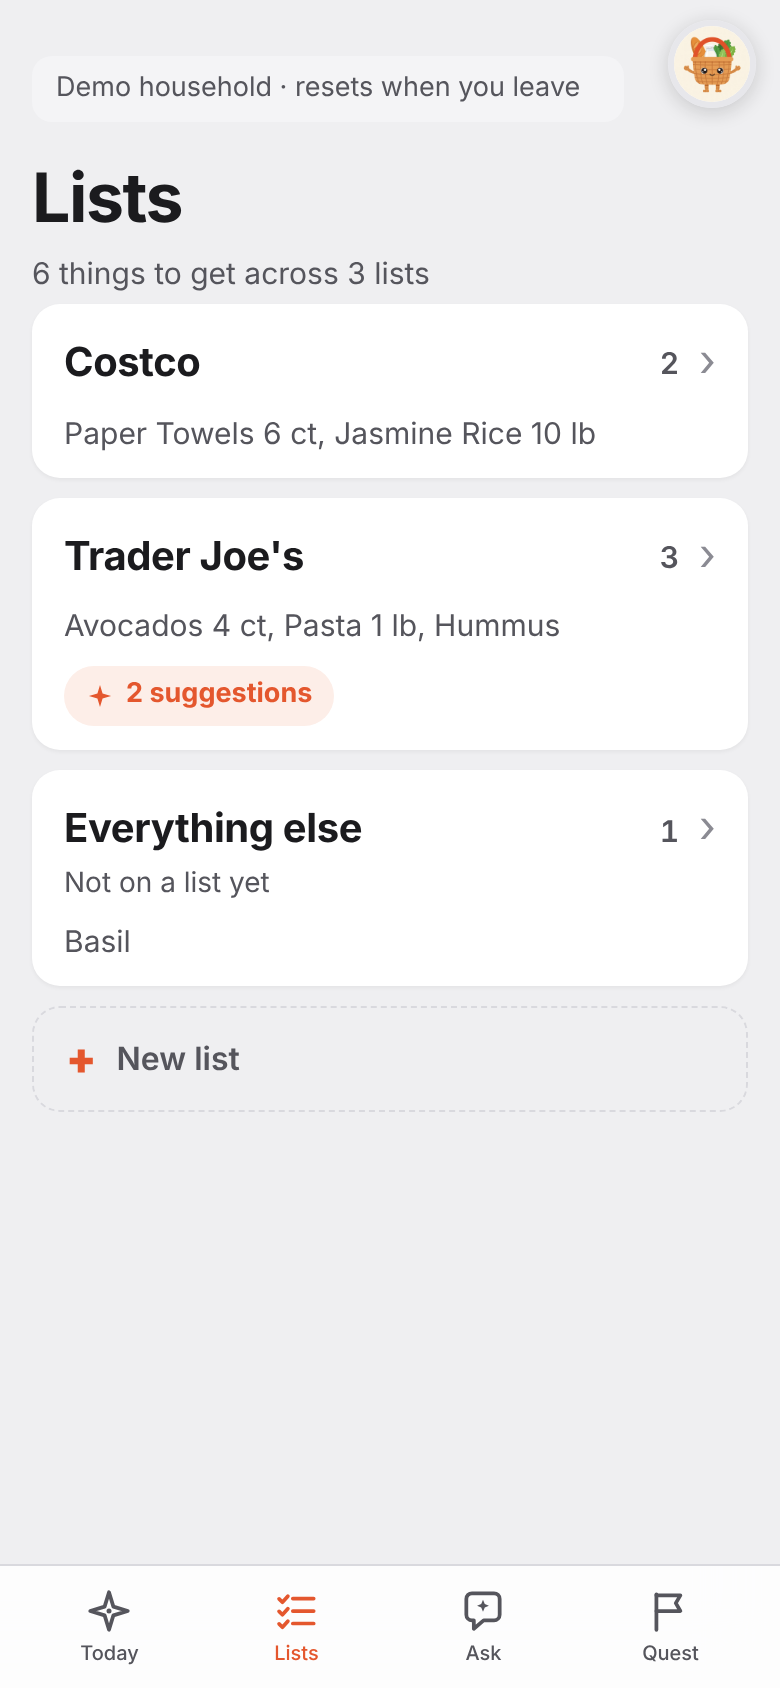
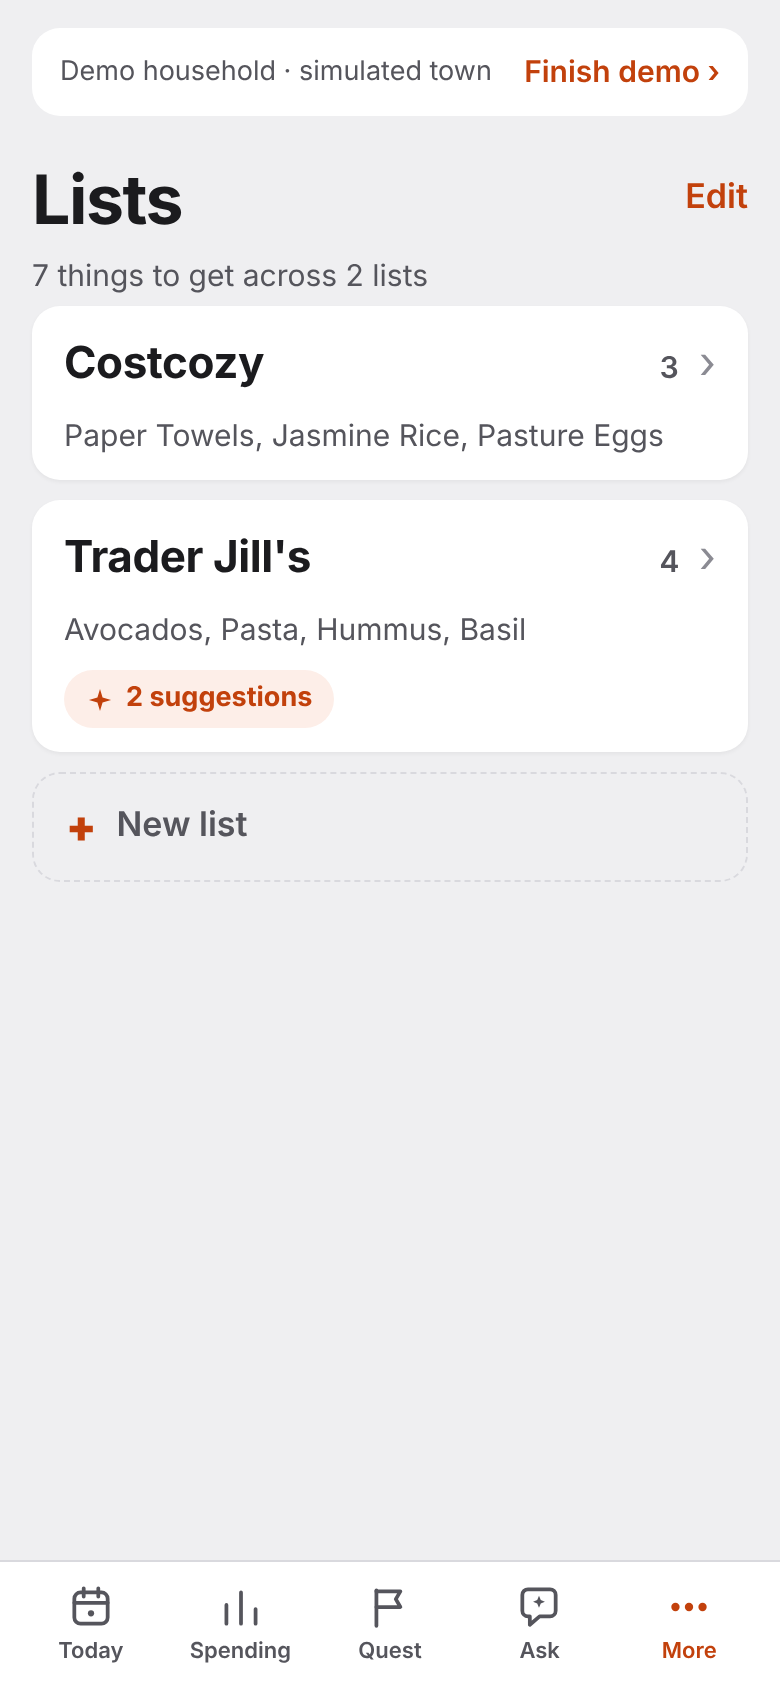
Docs: README front door for judges (#431)
* Docs: README front door (pitch, why it is different, judges' reading order, documentation map)

Claude-Session: https://claude.ai/code/session_0155vpoTbdwVT6nJbW3gnt9Z

* Docs: README nav text matches the current bar; retake Today and Lists screenshots from the live demo

Claude-Session: https://claude.ai/code/session_0155vpoTbdwVT6nJbW3gnt9Z

* Docs: judge playbook bar text matches the current bar

Claude-Session: https://claude.ai/code/session_0155vpoTbdwVT6nJbW3gnt9Z

* Docs: Try-it step 2 says open a list first

Claude-Session: https://claude.ai/code/session_0155vpoTbdwVT6nJbW3gnt9Z

---------

diff --git a/README.md b/README.md
@@ -1,42 +1,95 @@
-# Arya
+<h1 align="center">Arya</h1>
+<p align="center"><strong>She remembers the list.</strong></p>
+<p align="center">
+  A grocery list that learns from your receipts, then mostly writes itself.<br>
+  Built for the Meta Global AI Developer Hackathon 2026 (Team Nightshift, Indie track).
+</p>
 
-**She remembers the list.**
-
-Arya is a grocery list that learns. It reads your receipts, checks every
-line against the printed total, and learns what your household buys, how
-often, and at which store. The list then mostly writes itself: what is
-running low, what to use soon, and where you usually buy it.
-
-Start shopping - Go on a Quest to make the chore feel like a game. It turns
-your list into a hunt through a model of your store and ends on a photo of
-your receipt.
-
-Built for the Meta Global AI Developer Hackathon 2026 (Team Nightshift,
-Indie track). Submission deadline: Nov 4, 2026, 9:00 PM ET.
-
-**Judging this?** Start at [`JUDGES.md`](JUDGES.md): the rubric, the Meta model map and proof links in one page.
-
-**For developers:** open Lists API and docs at https://arya.teamnightshift.org/developers.
-
-**Live demo:** https://arya.teamnightshift.org. Tap "Try it now". It opens a
-fictional household with no account. Your changes live in a sandbox for your
-visit only; nothing reaches disk or another visitor.
+<p align="center">
+  <a href="https://arya.teamnightshift.org"><strong>Open the live demo</strong></a>
+  (tap "Try it now", no sign-up) &nbsp;|&nbsp;
+  <a href="JUDGES.md"><strong>Judging this? Start here</strong></a>
+  &nbsp;|&nbsp;
+  <a href="#documentation-map"><strong>All the docs</strong></a>
+</p>
 
 <p align="center">
   <img src="docs/images/today.png" alt="Today: what is running low, store alerts, what to use soon" width="230">
   <img src="docs/images/lists.png" alt="Lists: one card per store list, with suggestions" width="230">
 </p>
-<p align="center"><em>Today and Lists in the demo household.</em></p>
+<p align="center"><em>Today and Lists in the demo household (a simulated neighborhood, labelled as such).</em></p>
+
+## What it is
+
+Arya reads your receipts, checks every line against the printed total, and
+learns what your household buys, how often, and at which store. The list then
+mostly writes itself: what is running low, what to use soon, and where you
+usually buy it, each with a reason.
+
+It is for people who shop for a household, and for groups who share a list. It
+is a phone-first app (a PWA), and it also has an optional game, **Quest**, that
+turns the shopping trip into a hunt through a model of your store and ends on a
+photo of your receipt.
+
+**Live demo:** https://arya.teamnightshift.org. The demo opens a fictional
+household with no account. Your changes live in a sandbox for your visit only;
+nothing reaches disk or another visitor. It is best on a phone; on a laptop,
+make the window about 390 px wide. Open Lists API and docs for developers:
+https://arya.teamnightshift.org/developers.
+
+Submission deadline: Nov 4, 2026, 9:00 PM ET.
+
+## Why it is different
+
+- **The model proposes, code checks.** A model reads the receipt photo; plain
+  code then checks every line against the printed total before anything posts.
+  Money, timing and list logic are deterministic and cost nothing per call.
+- **Every Meta model has a job.** Muse Spark, Muse Wonder, SAM 3.1, Muse Voice
+  Transcribe, Muse Image and Muse Spark Open (open weights, hosted on Baseten)
+  each do one thing, through one module. See the [model map](JUDGES.md#meta-model-map).
+- **Prices come from your own receipts.** Nothing is fetched from store sites,
+  flyers, APIs or the web.
+- **Bring your own assistant.** Add items by typing, voice, a photo of a
+  handwritten note, or any AI agent through the MCP connector.
+- **Quest has no clock and no way to lose.** Optional, and it never gets in the
+  way of the list.
+
+## What judges should read first
+
+1. [`JUDGES.md`](JUDGES.md): the rubric, the Meta model map and proof links on one page.
+2. [`docs/quest/JUDGE-PLAYBOOK.md`](docs/quest/JUDGE-PLAYBOOK.md): a guided path through the live app.
+3. [`assistant/docs/ARCHITECTURE.md`](assistant/docs/ARCHITECTURE.md) and [`assistant/docs/MODEL-POLICY.md`](assistant/docs/MODEL-POLICY.md): how it fits together and why each model.
+4. [`docs/evals/`](docs/evals/): the measured results behind the numbers.
+5. [`STATUS.md`](STATUS.md): what is true on `main` today.
+
+## Documentation map
+
+| If you want to know... | Read |
+|---|---|
+| The rubric, model map and proof | [`JUDGES.md`](JUDGES.md) |
+| What the product is, in full | [`assistant/docs/SPEC.md`](assistant/docs/SPEC.md) |
+| Screen-by-screen journeys | [`assistant/docs/USER-JOURNEYS.md`](assistant/docs/USER-JOURNEYS.md) |
+| How it fits together | [`assistant/docs/ARCHITECTURE.md`](assistant/docs/ARCHITECTURE.md) |
+| Which model does what, and what it costs | [`assistant/docs/MODEL-POLICY.md`](assistant/docs/MODEL-POLICY.md) |
+| Stack, hosting, deploy, backups | [Tech stack and deployment](#tech-stack-and-deployment), [`assistant/docs/OPS.md`](assistant/docs/OPS.md) |
+| The Quest game | [`docs/quest/README.md`](docs/quest/README.md), [`docs/quest/GAME-DESIGN.md`](docs/quest/GAME-DESIGN.md) |
+| Using your own AI assistant | [`assistant/docs/AGENT-CONNECTOR.md`](assistant/docs/AGENT-CONNECTOR.md) |
+| The demo household | [`assistant/docs/DEMO.md`](assistant/docs/DEMO.md) |
+| Measured results | [`docs/evals/`](docs/evals/) |
+| Open API | https://arya.teamnightshift.org/developers, [`docs/API.md`](docs/API.md) |
+| How the project is run by agents | [`AGENTS.md`](AGENTS.md) |
+| What is not built yet | [`docs/ROADMAP.md`](docs/ROADMAP.md) |
+| What is done and what is not | [`STATUS.md`](STATUS.md) |
 
 ## Try it in one minute
 
 1. Open the demo. **Today** shows what is running low and why.
-2. Open **Lists**. Add an item by typing, with the mic, or with a photo of a handwritten note.
+2. Tap **More**, then **Lists**, and open a list. Add an item by typing, with the mic, or with a photo of a handwritten note.
 3. Open **Ask** and type "We finished the Greek yogurt", then "What am I running low on?".
 4. Open a list and tap **Start shopping** to start a quest at that list's store.
 5. For a longer path through the app, see [`docs/quest/JUDGE-PLAYBOOK.md`](docs/quest/JUDGE-PLAYBOOK.md).
 
-The bar at the bottom starts as Today, Lists, Quest, Ask and More. More holds Help, Settings and every place not on the bar. Each shopper can change the bar: touch and hold it, or tap More, then Customize bar.
+The bar at the bottom starts as Today, Spending, Quest, Ask and More. More holds Lists, Receipts, Stores, Help, Settings and every place not on the bar. Each shopper can change the bar: touch and hold it, or tap More, then Customize bar.
 
 ## What is in it
 

diff --git a/docs/quest/JUDGE-PLAYBOOK.md b/docs/quest/JUDGE-PLAYBOOK.md
@@ -32,11 +32,11 @@ the top that says the household is a demo. Today shows your next trip,
 store news from the simulated town (marked Simulated), what is running
 low and why, and your lists.
 
-The bar at the bottom is **Today, Lists, Quest, Ask, More**. **More**
-holds Receipts, Stores, Spending, Help and Settings.
+The bar at the bottom is **Today, Spending, Quest, Ask, More**. **More**
+holds Lists, Receipts, Stores, Help and Settings.
 
 ### 2. Lists
-Open **Lists**. The demo has a Costcozy list and a Trader Jill's list
+Tap **More**, then **Lists**. The demo has a Costcozy list and a Trader Jill's list
 (the town's stores have fictional names). Due staples show under
 **Suggested for** the store where they are usually bought; tap one to
 see why. A **Muse Spark 1.3**
